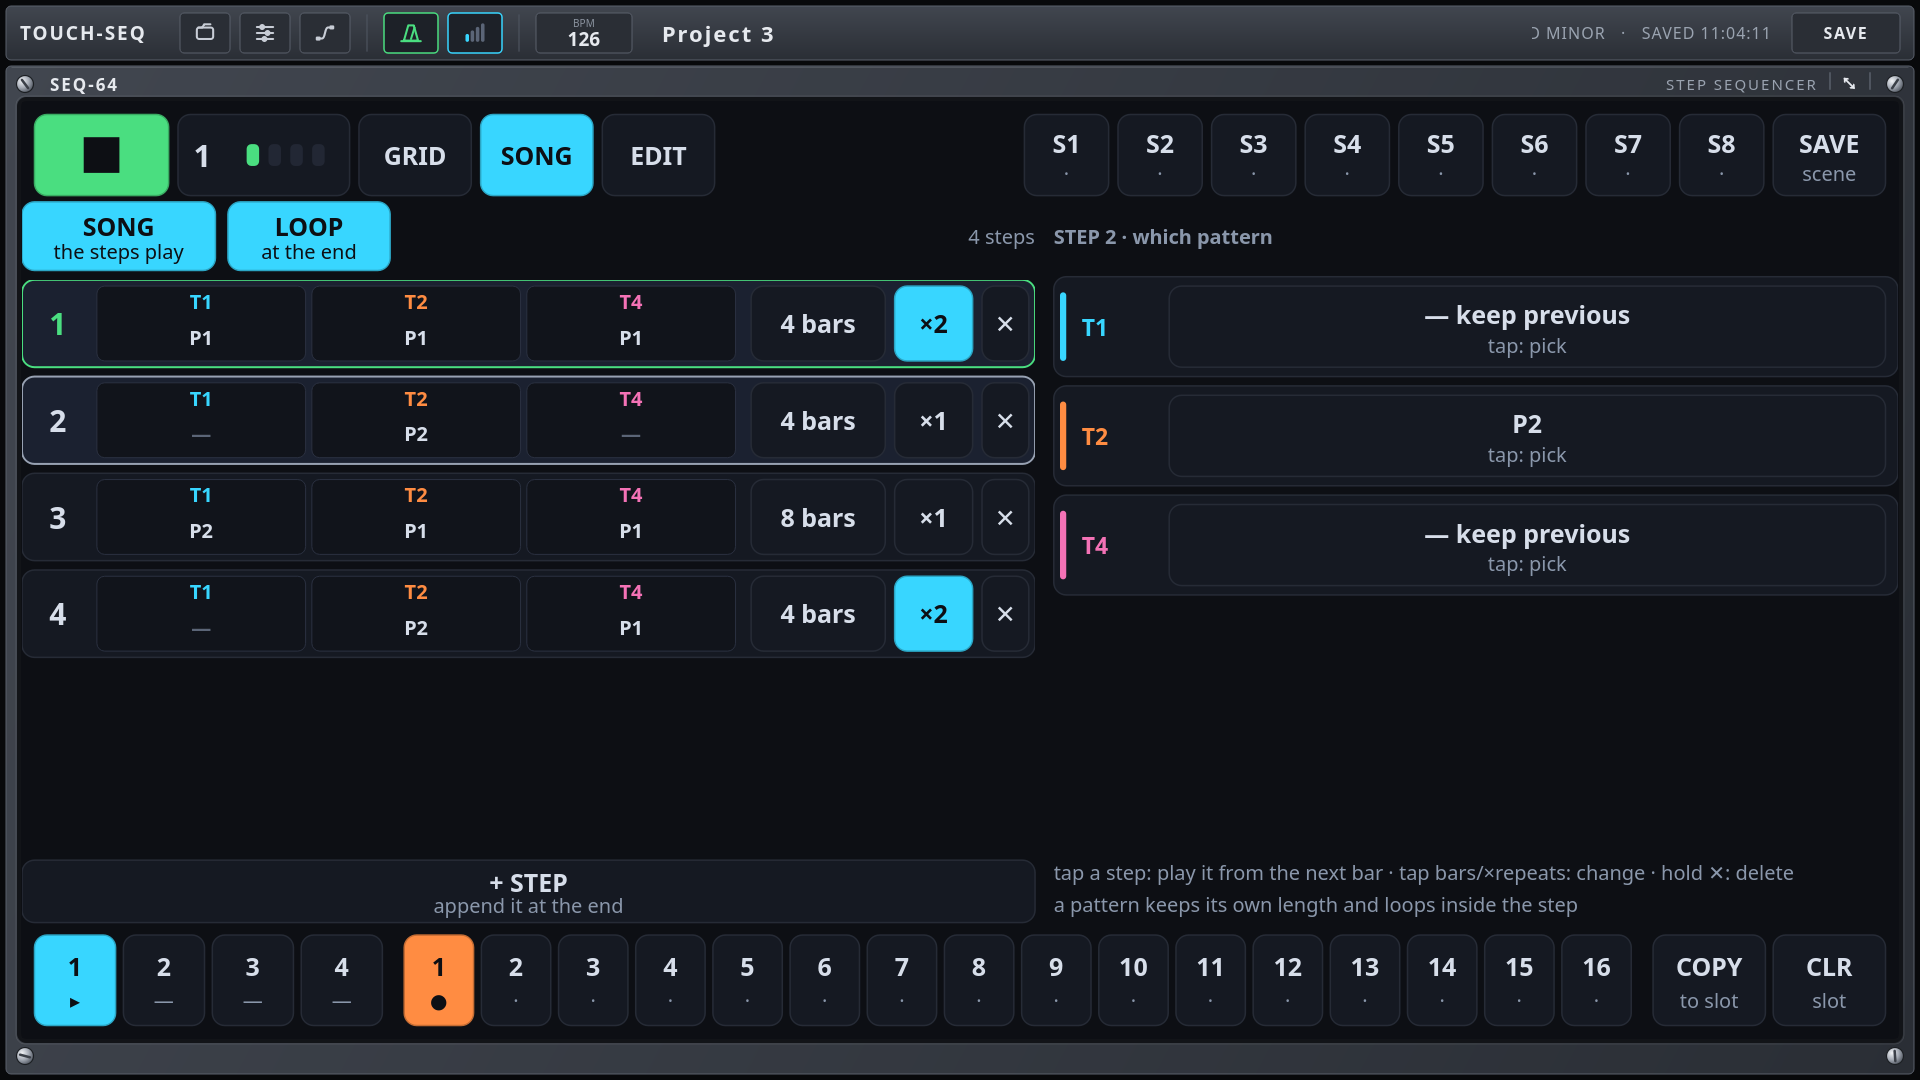
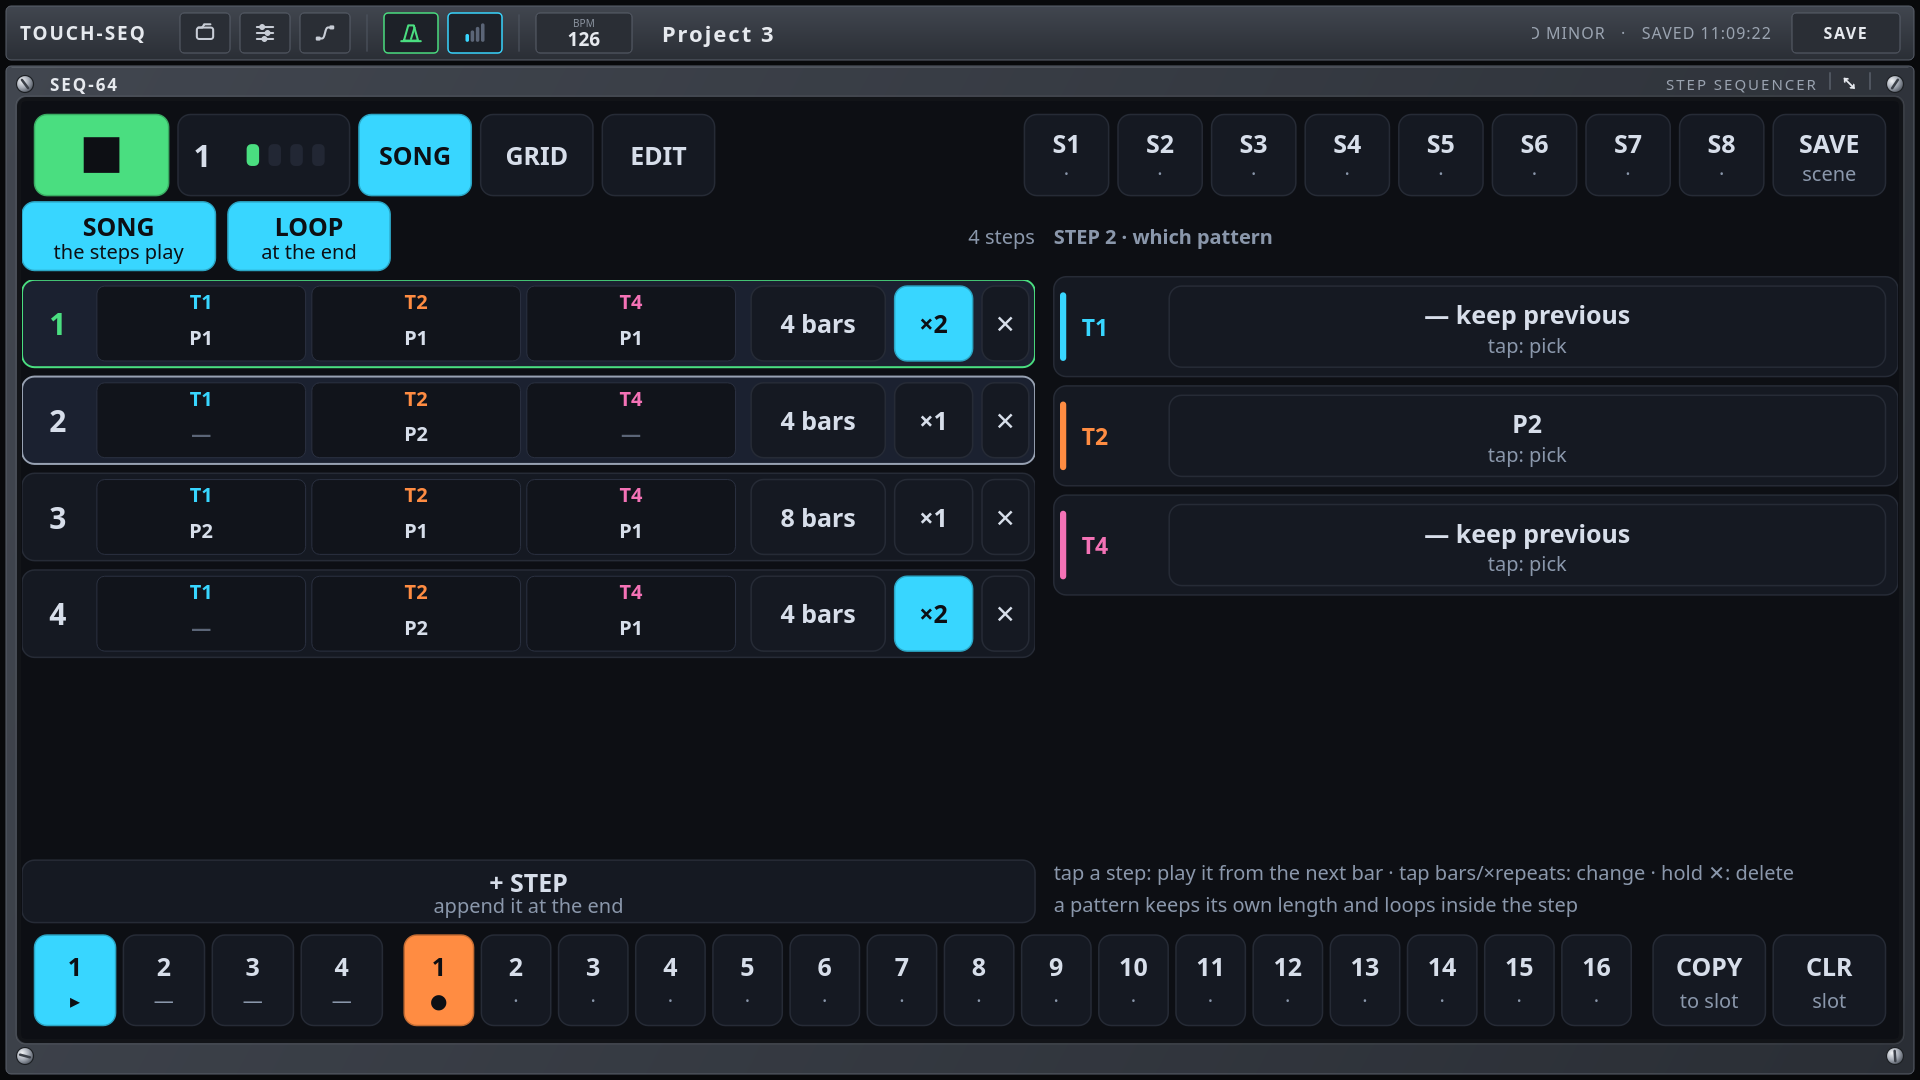
sequencer: SONG, GRID, EDIT - the arrangement first, the detail last

Changed region(s): [[0.1875, 0.0917, 0.3125, 0.1833]]

diff --git a/tseq/sequencer.py b/tseq/sequencer.py
@@ -282,7 +282,7 @@ class Sequencer(Panel):
 
     def draw_top(self, p, r):
         s, e = self.s, self.engine
-        play, bar, grid, song, edit, _, *scenes, save = split(
+        play, bar, song, grid, edit, _, *scenes, save = split(
             r, [86 * s, 110 * s, 72 * s, 72 * s, 72 * s, 0] + [54 * s] * SCENES + [72 * s], 6 * s)
 
         active = e.playing or e.counting
@@ -310,8 +310,8 @@ class Sequencer(Panel):
             br = QRectF(bar.left() + 44 * s + b * cell, bar.center().y() - 7 * s, cell - 6 * s, 14 * s)
             self.box(p, br, PLAY if b == beat else "#222734", None, radius=3)
 
-        self.button(p, grid, "GRID", lambda: setattr(self, "view", "grid"), on=self.view == "grid")
         self.button(p, song, "SONG", lambda: setattr(self, "view", "song"), on=self.view == "song")
+        self.button(p, grid, "GRID", lambda: setattr(self, "view", "grid"), on=self.view == "grid")
         self.button(p, edit, "EDIT", lambda: setattr(self, "view", "edit"), on=self.view == "edit")
 
         save_mode = self.mode == "save"
